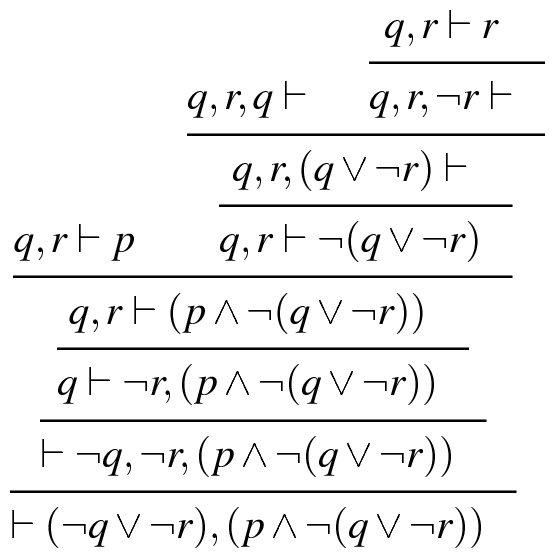
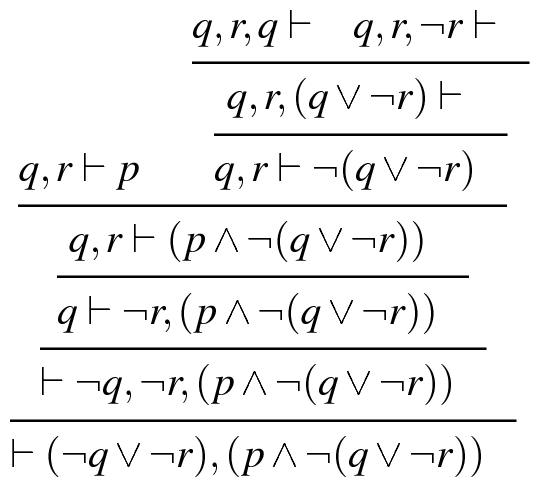
modified:   latex_files/d.png 	modified:   latex_files/d.tex 	modified:   latex_files/example.3.4.1.png 	modified:   latex_files/example.3.4.1.tex 	modified:   latex_files/problem.3.4.1.d.png 	modified:   latex_files/problem.3.4.1.d.tex 	modified:   latex_files/problem.3.4.1.f.png 	modified:   latex

Changed region(s): [[0.0, 0.0308, 0.9778, 0.9856], [0.3556, 0.0308, 0.563, 0.0924], [0.1481, 0.3388, 0.1778, 0.3696]]

diff --git a/latex_files/problem.3.4.1.d.tex b/latex_files/problem.3.4.1.d.tex
@@ -8,39 +8,14 @@
 \prooftree
 \prooftree
 \prooftree
-\prooftree
-\prooftree
-a \vdash a, a \ \ \ 
-\justifies
- \vdash a, a, \lnot a \ \ \ 
-\endprooftree
-\prooftree
-\prooftree
-a \vdash a, b \ \ \ 
-\justifies
- \vdash a, b, \lnot a \ \ \ 
-\endprooftree
-\justifies
-\lnot b \vdash \lnot a, a \ \ \ 
-\endprooftree
-\justifies
 (a \to \lnot b) \vdash \lnot a, a \ \ \ 
-\endprooftree
 \justifies
  \vdash a, ((a \to \lnot b) \to \lnot a) \ \ \ 
 \endprooftree
 \prooftree
 \prooftree
-\prooftree
-a, b \vdash a \ \ \ 
-\justifies
 b \vdash a, \lnot a \ \ \ 
-\endprooftree
-\prooftree
-b \vdash b, \lnot a \ \ \ 
-\justifies
-b, \lnot b \vdash \lnot a \ \ \ 
-\endprooftree
+\lnot b, b \vdash \lnot a \ \ \ 
 \justifies
 b, (a \to \lnot b) \vdash \lnot a \ \ \ 
 \endprooftree

diff --git a/latex_files/example.3.4.1.tex b/latex_files/example.3.4.1.tex
@@ -8,24 +8,12 @@
 \prooftree
 \prooftree
 \prooftree
-\prooftree
-\prooftree
-p \vdash p, q \ \ \ 
-\justifies
- \vdash p, q, \lnot p \ \ \ 
-\endprooftree
-\justifies
 \lnot q \vdash \lnot p, p \ \ \ 
-\endprooftree
 \justifies
  \vdash p, (\lnot q \to \lnot p) \ \ \ 
 \endprooftree
 \prooftree
-\prooftree
-q \vdash q, \lnot p \ \ \ 
-\justifies
-q, \lnot q \vdash \lnot p \ \ \ 
-\endprooftree
+\lnot q, q \vdash \lnot p \ \ \ 
 \justifies
 q \vdash (\lnot q \to \lnot p) \ \ \ 
 \endprooftree

diff --git a/latex_files/problem.3.4.2.b.c.tex b/latex_files/problem.3.4.2.b.c.tex
@@ -8,24 +8,7 @@
 \prooftree
 \prooftree
 \prooftree
-\prooftree
-\prooftree
-a \vdash a, b \ \ \ 
-\justifies
- \vdash a, b, \lnot a \ \ \ 
-\endprooftree
-\prooftree
-\prooftree
-a \vdash a, c \ \ \ 
-\justifies
- \vdash a, c, \lnot a \ \ \ 
-\endprooftree
-\justifies
-\lnot c \vdash \lnot a, a \ \ \ 
-\endprooftree
-\justifies
 (b \to \lnot c) \vdash \lnot a, a \ \ \ 
-\endprooftree
 \justifies
  \vdash a, ((b \to \lnot c) \to \lnot a) \ \ \ 
 \endprooftree

diff --git a/latex_files/d.tex b/latex_files/d.tex
@@ -13,11 +13,7 @@ q, r \vdash p \ \ \
 \prooftree
 \prooftree
 q, r, q \vdash  \ \ \ 
-\prooftree
-q, r \vdash r \ \ \ 
-\justifies
 q, r, \lnot r \vdash  \ \ \ 
-\endprooftree
 \justifies
 q, r, (q \lor \lnot r) \vdash  \ \ \ 
 \endprooftree

diff --git a/latex_files/problem.3.4.1.f.tex b/latex_files/problem.3.4.1.f.tex
@@ -7,11 +7,7 @@
 \begin{displaymath}
 \prooftree
 \prooftree
-\prooftree
-a \vdash a \ \ \ 
-\justifies
- \vdash a, \lnot a \ \ \ 
-\endprooftree
+ \vdash \lnot a, a \ \ \ 
 \justifies
 \lnot \lnot a \vdash a \ \ \ 
 \endprooftree
